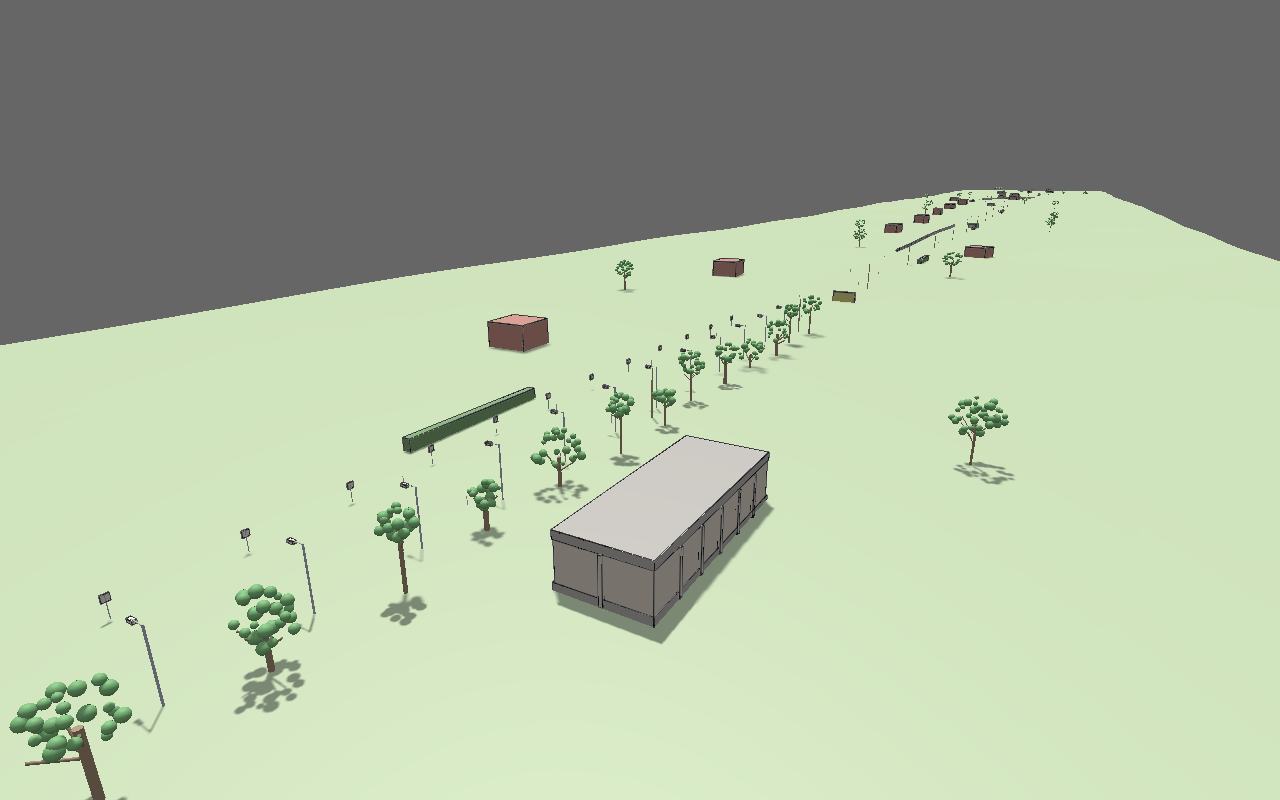
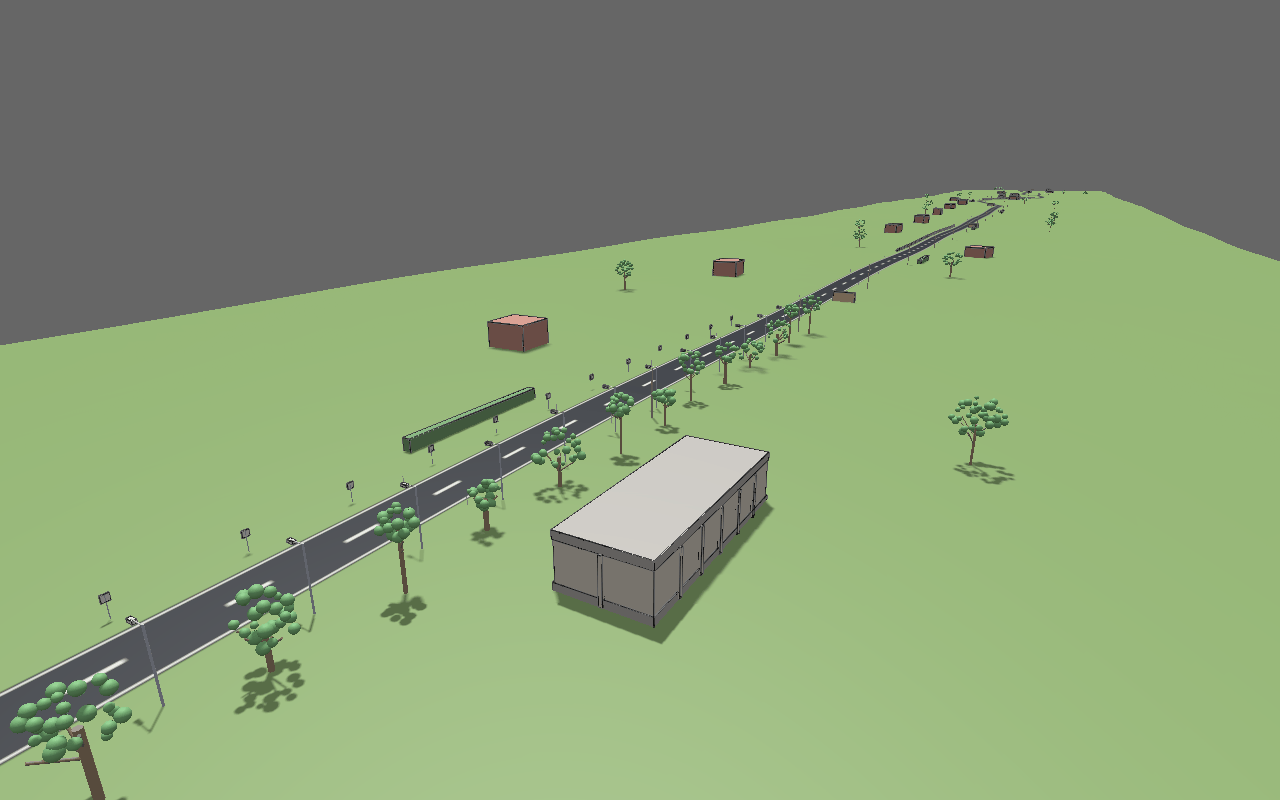
Road worlds: the road painted on the ground (asphalt, lane lines)
A Terrain can take a paint function that colors a ground texture
(terrain.png, written by build_worlds.py and mapped on the elevation mesh by
MVSim); paint_road() draws the asphalt and the solid and dashed lines.
open_road shows its two lanes, open_highway its two carriageways. Rendering
only: the ray tracer reads the heights alone, and rawlogs rendered with and
without the texture are byte-identical (checked on one sequence per world).
The top-view plots show the painted ground too; screenshots redone.

diff --git a/tools/mvsim_lio/world.py b/tools/mvsim_lio/world.py
@@ -266,13 +266,41 @@ class World:
         return ''.join(out)
 
 
+C_ASPHALT = (58, 61, 66)
+C_MARKING = (225, 225, 215)
+
+
+def paint_road(rgb, x, d, lo, hi, solid=(), dashed=(), line=0.3, dash=(4.0, 8.0)):
+    """Paints a road in a ground texture (Terrain's paint): asphalt where the
+    lateral offset d of a pixel from the road axis is within [lo, hi], solid
+    lines at the offsets `solid` and dashed ones at `dashed` (dash[0] m of
+    line, dash[1] m of gap along x)."""
+    rgb[(d >= lo) & (d <= hi)] = C_ASPHALT
+    for off in solid:
+        rgb[np.abs(d - off) <= line / 2] = C_MARKING
+    on = np.mod(x, dash[0] + dash[1]) < dash[0]
+    for off in dashed:
+        rgb[(np.abs(d - off) <= line / 2) & on] = C_MARKING
+
+
+# The painted ground of a world (Terrain.texture()), next to its world.xml.
+TEXTURE_FILE = 'terrain.png'
+
+
 class Terrain:
     """Elevation map sampled from an analytic, smooth z = f(x, y) function, so
     that trajectories can follow it exactly (no grid kinks under the wheels).
     Matrix rows run along X and columns along Y, as MVSim expects."""
 
-    def __init__(self, f, xmin, xmax, ymin, ymax, resolution, color='#90a878'):
+    def __init__(self, f, xmin, xmax, ymin, ymax, resolution, color='#90a878', paint=None,
+                 paint_res=(1.0, 0.25)):
+        """paint: optional paint(X, Y, rgb) that colors the ground (a road,
+        its markings) in the texture `rgb` (uint8, pre-filled with `color`),
+        whose pixels are centered at X, Y and measure paint_res = (along x,
+        along y) m. Rendering only: the ray tracer sees the heights alone."""
         self.f = f
+        self.paint = paint
+        self.paint_res = paint_res
         self.res = resolution
         self.nx = int(round((xmax - xmin) / resolution)) + 1
         self.ny = int(round((ymax - ymin) / resolution)) + 1
@@ -289,11 +317,27 @@ class Terrain:
     def height(self, x, y):
         return self.f(np.asarray(x, dtype=float), np.asarray(y, dtype=float))
 
+    def texture(self):
+        """The painted ground as an RGB image (rows along X, columns along
+        Y, the layout MVSim maps onto the mesh), or None without paint."""
+        if self.paint is None:
+            return None
+        rx, ry = self.paint_res
+        nx = int(round((self.xmax - self.xmin) / rx))
+        ny = int(round((self.ymax - self.ymin) / ry))
+        X, Y = np.meshgrid(self.xmin + rx * (np.arange(nx) + 0.5), self.ymin + ry * (np.arange(ny) + 0.5),
+                           indexing='ij')
+        rgb = np.empty((nx, ny, 3), dtype=np.uint8)
+        rgb[:] = [int(self.color[i:i + 2], 16) for i in (1, 3, 5)]
+        self.paint(X, Y, rgb)
+        return rgb
+
     def to_xml(self):
         rows = ';\n'.join(' '.join(f'{v:.3f}' for v in row) for row in self.Z)
+        tex = f'\n\t\t<texture_image>{TEXTURE_FILE}</texture_image>' if self.paint is not None else ''
         return (f'\t<element class="elevation_map">\n\t\t<resolution>{self.res}</resolution>\n'
                 f'\t\t<corner_min_x>{self.xmin}</corner_min_x>\n'
                 f'\t\t<corner_min_y>{self.ymin}</corner_min_y>\n'
-                f'\t\t<mesh_color>{self.color}</mesh_color>{self.tags}\n'
+                f'\t\t<mesh_color>{self.color}</mesh_color>{self.tags}{tex}\n'
                 f'\t\t<elevation_data_matrix>[\n{rows}\n]</elevation_data_matrix>\n'
                 f'\t</element>\n')

diff --git a/worlds/open_highway/world.py b/worlds/open_highway/world.py
@@ -19,7 +19,7 @@ import numpy as np
 from mvsim_lio import props, traffic
 from mvsim_lio import traj as T
 from mvsim_lio.traj import P, Stop
-from mvsim_lio.world import Terrain, World
+from mvsim_lio.world import Terrain, World, paint_road
 
 # Highway speeds: the stock 'car' carrier is capped at 15 m/s. The carrier is
 # registered here (with its body for the clearance check of
@@ -209,10 +209,19 @@ def _start_area(w, g, rng, x0):
     _gantry(w, g, x0 + 45.0)
 
 
+def _paint(X, Y, rgb):
+    """The two carriageways in the ground texture: the three lanes of the
+    driven one and the two of the other, with edge lines and dashed lane
+    lines; the median barrier stands between them."""
+    paint_road(rgb, X, Y - road_y(X), Y_OUT_R + 0.2, Y_OUT_L - 0.2,
+               solid=(Y_OUT_R + 0.45, Y_MED - 0.55, Y_MED + 0.55, Y_OUT_L - 1.5),
+               dashed=(LANE_Y - 1.45, LANE_Y + 1.45, 5.2))
+
+
 def make_world():
     rng = np.random.default_rng(SEED)
     w = World('open_highway', __doc__, extent=(X0, X1, Y0, Y1))
-    w.set_terrain(Terrain(ground, X0, X1, Y0, Y1, 2.0, color='#8fae6e'))
+    w.set_terrain(Terrain(ground, X0, X1, Y0, Y1, 2.0, color='#8fae6e', paint=_paint))
     g = lambda x, y: float(ground(x, y))  # noqa: E731
     for x0, x1, kind in SECTIONS:
         if kind == 'rich':

diff --git a/worlds/open_road/world.py b/worlds/open_road/world.py
@@ -12,7 +12,7 @@ import numpy as np
 
 from mvsim_lio import props, traffic
 from mvsim_lio.traj import P
-from mvsim_lio.world import Terrain, World
+from mvsim_lio.world import Terrain, World, paint_road
 
 SCREENSHOTS = [
     dict(point_to=(40, -4, 1.0), distance=110, azimuth=-150, elevation=18, fov=60),
@@ -46,10 +46,16 @@ def road_y(x):
     return 35.0 * (np.sin(2.0 * np.pi * s))
 
 
+def _paint(X, Y, rgb):
+    """The road in the ground texture: two 3.7 m lanes, edge lines and a
+    dashed center line."""
+    paint_road(rgb, X, Y - road_y(X), -4.0, 4.0, solid=(-3.7, 3.7), dashed=(0.0,))
+
+
 def make_world():
     rng = np.random.default_rng(SEED)
     w = World('open_road', __doc__, extent=(X0, X1, Y0, Y1))
-    w.set_terrain(Terrain(ground, X0, X1, Y0, Y1, 2.0, color='#8fae6e'))
+    w.set_terrain(Terrain(ground, X0, X1, Y0, Y1, 2.0, color='#8fae6e', paint=_paint, paint_res=(0.5, 0.25)))
     g = lambda x, y: float(ground(x, y))  # noqa: E731
     # Reflector posts on both edges, utility poles every 70 m
     for x in np.arange(0.0, 1800.0, POST_SPACING):

diff --git a/tools/mvsim_lio/plot.py b/tools/mvsim_lio/plot.py
@@ -29,6 +29,13 @@ def plot_world(world, trajs, out_png, max_kb=300):
                        dx=tz.res, dy=tz.res, vmin=tz.Z.min() - 0.3 * np.ptp(tz.Z) - 1,
                        vmax=tz.Z.max() + 0.6 * np.ptp(tz.Z) + 1)
         ax.imshow(rgb, origin='lower', extent=(tz.xmin, tz.xmax, tz.ymin, tz.ymax), zorder=0)
+        tex = tz.texture()
+        if tex is not None:
+            # The painted ground (roads) over the shaded terrain.
+            base = np.array([int(tz.color[i:i + 2], 16) for i in (1, 3, 5)], dtype=np.uint8)
+            rgba = np.dstack([tex, 255 * np.any(tex != base, axis=2).astype(np.uint8)])
+            ax.imshow(rgba.transpose(1, 0, 2), origin='lower', extent=(tz.xmin, tz.xmax, tz.ymin, tz.ymax),
+                      zorder=0, interpolation='antialiased')
         cs = ax.contour(np.linspace(tz.xmin, tz.xmax, tz.nx), np.linspace(tz.ymin, tz.ymax, tz.ny),
                         tz.Z.T, levels=12, colors='k', linewidths=0.3, alpha=0.4, zorder=1)
         ax.clabel(cs, fontsize=6, fmt='%.0f m')

diff --git a/tools/build_worlds.py b/tools/build_worlds.py
@@ -12,12 +12,14 @@ import sys
 from pathlib import Path
 
 import numpy as np
+from PIL import Image
 
 ROOT = Path(__file__).resolve().parent.parent
 sys.path.insert(0, str(ROOT / 'tools'))
 
 from mvsim_lio import traj as T  # noqa: E402
 from mvsim_lio.plot import plot_world  # noqa: E402
+from mvsim_lio.world import TEXTURE_FILE  # noqa: E402
 
 # Body clearance per platform: radius [m] and height band above the ground [m].
 BODY = {'car': (0.95, 0.3, 1.6), 'ugv': (0.40, 0.1, 0.9), 'legged': (0.30, 0.1, 0.7),
@@ -92,6 +94,10 @@ def build(name):
     world = mod.make_world()
     wdir = ROOT / 'worlds' / name
     (wdir / 'world.xml').write_text(world.to_xml())
+    tex = world.terrain.texture() if world.terrain is not None else None
+    if tex is not None:
+        # Few colors: a palette PNG is small.
+        Image.fromarray(tex).quantize(colors=16, dither=Image.Dither.NONE).save(wdir / TEXTURE_FILE, optimize=True)
     tdir = wdir / 'trajectories'
     tdir.mkdir(exist_ok=True)
     trajs = mod.trajectories(world)

diff --git a/AGENTS.md b/AGENTS.md
@@ -104,6 +104,10 @@ own carrier (`car_highway`, 30 m/s limit) in its `world.py`. The car rigs
 `hdl64` and `os1_64_car` have the LiDAR at its height above the road on the
 `car` carrier (`base_link` is 1.15 m above the ground): no hosted variant
 uses them.
+A `Terrain` with a `paint` function gets a ground texture (`terrain.png`,
+written by `build_worlds.py`; `paint_road()` draws asphalt and lane lines):
+MVSim shows it in screenshots, the ray tracer ignores it (rawlogs are
+byte-identical with and without it).
 
 ## Carriers and stairs
 
